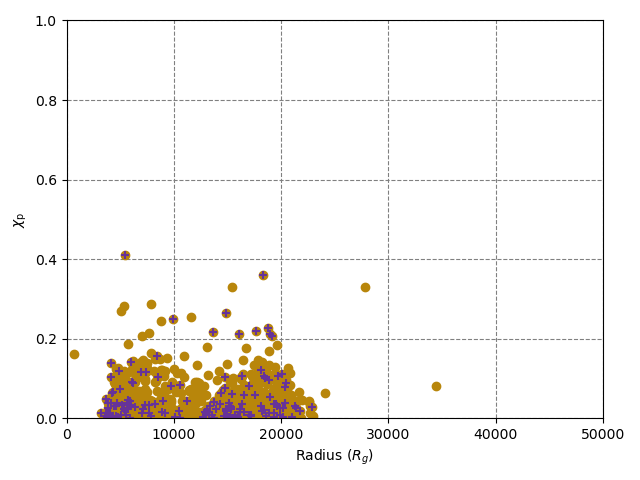
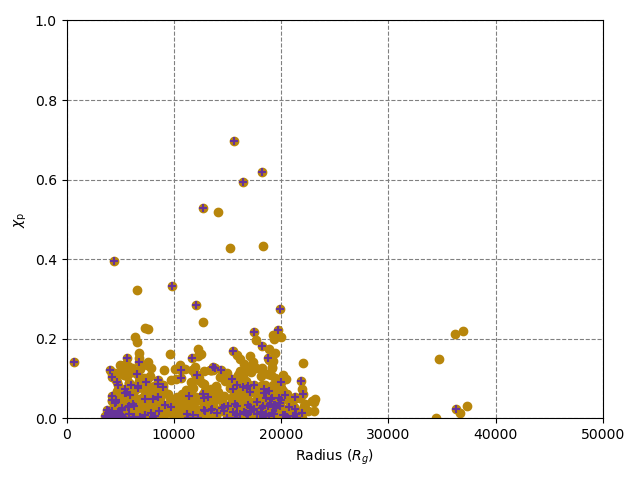
retros now work, until they hit 0 radius or inc=0

diff --git a/src/mcfacts/physics/disk_capture/crude_retro_evol.py b/src/mcfacts/physics/disk_capture/crude_retro_evol.py
@@ -51,6 +51,9 @@ def crude_retro_bh(mass_smbh, orbiter_masses, orbiter_semimaj, orbiter_ecc, orbi
     new_orbiter_inc = np.zeros(len(orbiter_inc))
     new_orbiter_semimaj = np.zeros(len(orbiter_semimaj))
 
+    # Housekeeping: if you're too close to ecc=1.0, nothing works, so
+    epsilon = 1.0e-8
+
     # hardcoded awfulness coming up:
     mass_smbh_0 = 1e8 # solar masses, for scaling
     orbiter_mass_0 = 30.0 # solar masses
@@ -123,13 +126,15 @@ def crude_retro_bh(mass_smbh, orbiter_masses, orbiter_semimaj, orbiter_ecc, orbi
                 inc_scale_factor = step1_time * tau_inc_dyn(mass_smbh, orbiter_semimaj[i], orbiter_masses[i], orbiter_periapse[i], orbiter_ecc[i], orbiter_inc[i], surfdensfunc) / tau_inc_dyn(mass_smbh_0, step1_semi_maj_0, orbiter_mass_0, periapse_1, step1_ecc_0, step1_inc_0, surfdensfunc)
                 new_orbiter_ecc[i] = orbiter_ecc[i] * (1.0 + step1_delta_ecc/orbiter_ecc[i] * (timestep/ecc_scale_factor))
                 # catch overshooting ecc=1
-                if new_orbiter_ecc[i] > 1.0: new_orbiter_ecc[i] = 1.0
+                # actually eqns not appropriate for ecc=1.0
+                if new_orbiter_ecc[i] >= (1.0 - epsilon): new_orbiter_ecc[i] = (1.0 - epsilon)
                 new_orbiter_semimaj[i] = orbiter_semimaj[i] * (1.0 - step1_delta_semimaj/orbiter_semimaj[i] * (timestep/semimaj_scale_factor))
                 # catch overshooting semimaj axis, set to 0.0
                 if new_orbiter_semimaj[i] <= 0.0: new_orbiter_semimaj[i] = 0.0
                 new_orbiter_inc[i] = orbiter_inc[i] * (1.0 - step1_delta_inc/orbiter_inc[i] * (timestep/inc_scale_factor))
                 # catch overshooting inc, set to 0.0
-                if new_orbiter_inc[i] <= 0.0: new_orbiter_inc[i] = 0.0
+                if new_orbiter_inc[i] <= (0.0): new_orbiter_inc[i] = (0.0)
+                print("Step 1")
             # check if we have hit max ecc, which sends us to step 2
             elif (orbiter_ecc[i] >= step2_ecc_0):
                 # adjust our timesteps for actual values of params, vs baseline
@@ -141,12 +146,15 @@ def crude_retro_bh(mass_smbh, orbiter_masses, orbiter_semimaj, orbiter_ecc, orbi
                 new_orbiter_ecc[i] = orbiter_ecc[i] * (1.0 - step2_delta_ecc/orbiter_ecc[i] * (timestep/ecc_scale_factor))
                 # catch overshooting ecc=0
                 if new_orbiter_ecc[i] < 0.0: new_orbiter_ecc[i] = 0.0
+                # and catch overshooting ecc=1.0
+                if new_orbiter_ecc[i] >= (1.0 - epsilon): new_orbiter_ecc[i] = (1.0 - epsilon)
                 new_orbiter_semimaj[i] = orbiter_semimaj[i] * (1.0 - step2_delta_semimaj/orbiter_semimaj[i] * (timestep/semimaj_scale_factor))
                 # catch overshooting semimaj axis, set to 0.0
                 if new_orbiter_semimaj[i] <= 0.0: new_orbiter_semimaj[i] = 0.0
                 new_orbiter_inc[i] = orbiter_inc[i] * (1.0 - step2_delta_inc/orbiter_inc[i] * (timestep/inc_scale_factor))
                 # catch overshooting inc, set to 0.0
-                if new_orbiter_inc[i] <= 0.0: new_orbiter_inc[i] = 0.0
+                if new_orbiter_inc[i] <= (0.0): new_orbiter_inc[i] = (0.0)
+                print("Step 2")
             # if our inc is even barely prograde... hopefully this works ok...
             # this should work as long as we're only tracking stuff originally retrograde
             elif (np.abs(orbiter_inc[i]) < (np.pi/2.0)):
@@ -164,7 +172,8 @@ def crude_retro_bh(mass_smbh, orbiter_masses, orbiter_semimaj, orbiter_ecc, orbi
                 if new_orbiter_semimaj[i] <= 0.0: new_orbiter_semimaj[i] = 0.0
                 new_orbiter_inc[i] = orbiter_inc[i] * (1.0 - step3_delta_inc/orbiter_inc[i] * (timestep/inc_scale_factor))
                 # catch overshooting inc, set to 0.0
-                if new_orbiter_inc[i] <= 0.0: new_orbiter_inc[i] = 0.0
+                if new_orbiter_inc[i] <= (0.0): new_orbiter_inc[i] = (0.0)
+                print("Step 3")
             # print warning if none of the conditions are satisfied
             else:
                 print("Warning: retrograde orbital parameters out of range, behavior unreliable")
@@ -189,7 +198,7 @@ def crude_retro_bh(mass_smbh, orbiter_masses, orbiter_semimaj, orbiter_ecc, orbi
             if new_orbiter_semimaj[i] <= 0.0: new_orbiter_semimaj[i] = 0.0
             new_orbiter_inc[i] = orbiter_inc[i] * (1.0 - stepw0_delta_inc/orbiter_inc[i] * (timestep/stepw0_time))
             # catch overshooting inc, set to 0.0
-            if new_orbiter_inc[i] <= 0.0: new_orbiter_inc[i] = 0.0
+            if new_orbiter_inc[i] <= (0.0): new_orbiter_inc[i] = (0.0)
         else:
             print("Warning: retrograde argument of periapse out of range, behavior unreliable")
     
@@ -327,10 +336,11 @@ def tau_semi_lat(mass_smbh,retrograde_bh_locations,retrograde_bh_masses,retrogra
     # WZL Eqn 70
     #   NOTE: preserved retrograde_bh_locations in r_g to feed to disk_surf_model function
     #   tau in units of sec
-    tau_p_dyn = np.sin(inc) * (delta - np.cos(inc))**1.5 \
+    #   NOTE: had to add an abs(sin(inc)) to avoid negative timescales(!)
+    tau_p_dyn = np.abs(np.sin(inc)) * (delta - np.cos(inc))**1.5 \
                 * mass_smbh**2 * period / (retro_mass*disk_surf_model(retrograde_bh_locations)*np.pi*semi_lat_rec**2) \
                 / (np.sqrt(2)) * kappa * np.abs(np.cos(inc) - zeta)
-
+    
     return tau_p_dyn
 
 def tau_ecc_dyn(mass_smbh, orbiter_semimaj, orbiter_masses, orbiter_periapse, orbiter_ecc, orbiter_inc, surfdensfunc):

diff --git a/src/mcfacts/setup/setupdiskblackholes.py b/src/mcfacts/setup/setupdiskblackholes.py
@@ -143,10 +143,15 @@ def setup_disk_blackholes_arg_periapse(rng, n_bh):
     # Someday we should probably pick all the orbital variables
     #   to be consistent with a thermal distribution or something
     #   otherwise physically well-motivated...
+    #
+    # Hahahaha, actually, no, for now everything will be at 0.0 or pi/2
+    # For now, bc crude retro evol only treats arg periapse = (0.0, pi) or pi/2
+    # and intermediate values are fucking up evolution
 
     integer_nbh = int(n_bh)
     random_uniform_number = rng.random((integer_nbh,))
-    bh_initial_orb_arg_periapse = 2.0*np.pi*random_uniform_number
+    #bh_initial_orb_arg_periapse = 2.0*np.pi*random_uniform_number
+    bh_initial_orb_arg_periapse = 0.5 * np.pi * np.around(random_uniform_number)
 
     return bh_initial_orb_arg_periapse
 

diff --git a/src/mcfacts/tests/crude_retro_evol_test.py b/src/mcfacts/tests/crude_retro_evol_test.py
@@ -36,10 +36,10 @@ if __name__ == "__main__":
     surf_dens_func = lambda x, f=surf_dens_func_log: np.exp(f(x))
 
     mass_smbh = 1.0e8
-    retrograde_bh_locations = 1.e2 * np.ones(7)
-    retrograde_bh_masses = 30.0 * np.ones(7)
-    retrograde_bh_orb_ecc = np.array([0.1, 0.3, 0.5, 0.7, 0.9, 0.99, 0.999])
-    retrograde_bh_orb_inc = (179.0/180.0) * (np.pi) * np.ones(7)
+    retrograde_bh_locations = 8.002169443665509789e+03 * np.ones(7)
+    retrograde_bh_masses = 1.085329144860416584e+01 * np.ones(7)
+    retrograde_bh_orb_ecc = np.array([0.1, 0.3, 0.5, 0.7, 0.9, 0.99, 2.274490742165892199e-01])
+    retrograde_bh_orb_inc = 3.143573527032012649e+00 * np.ones(7)
     retro_arg_periapse = 0.0 * np.pi * np.ones(7)
     timestep = 1e4
 
